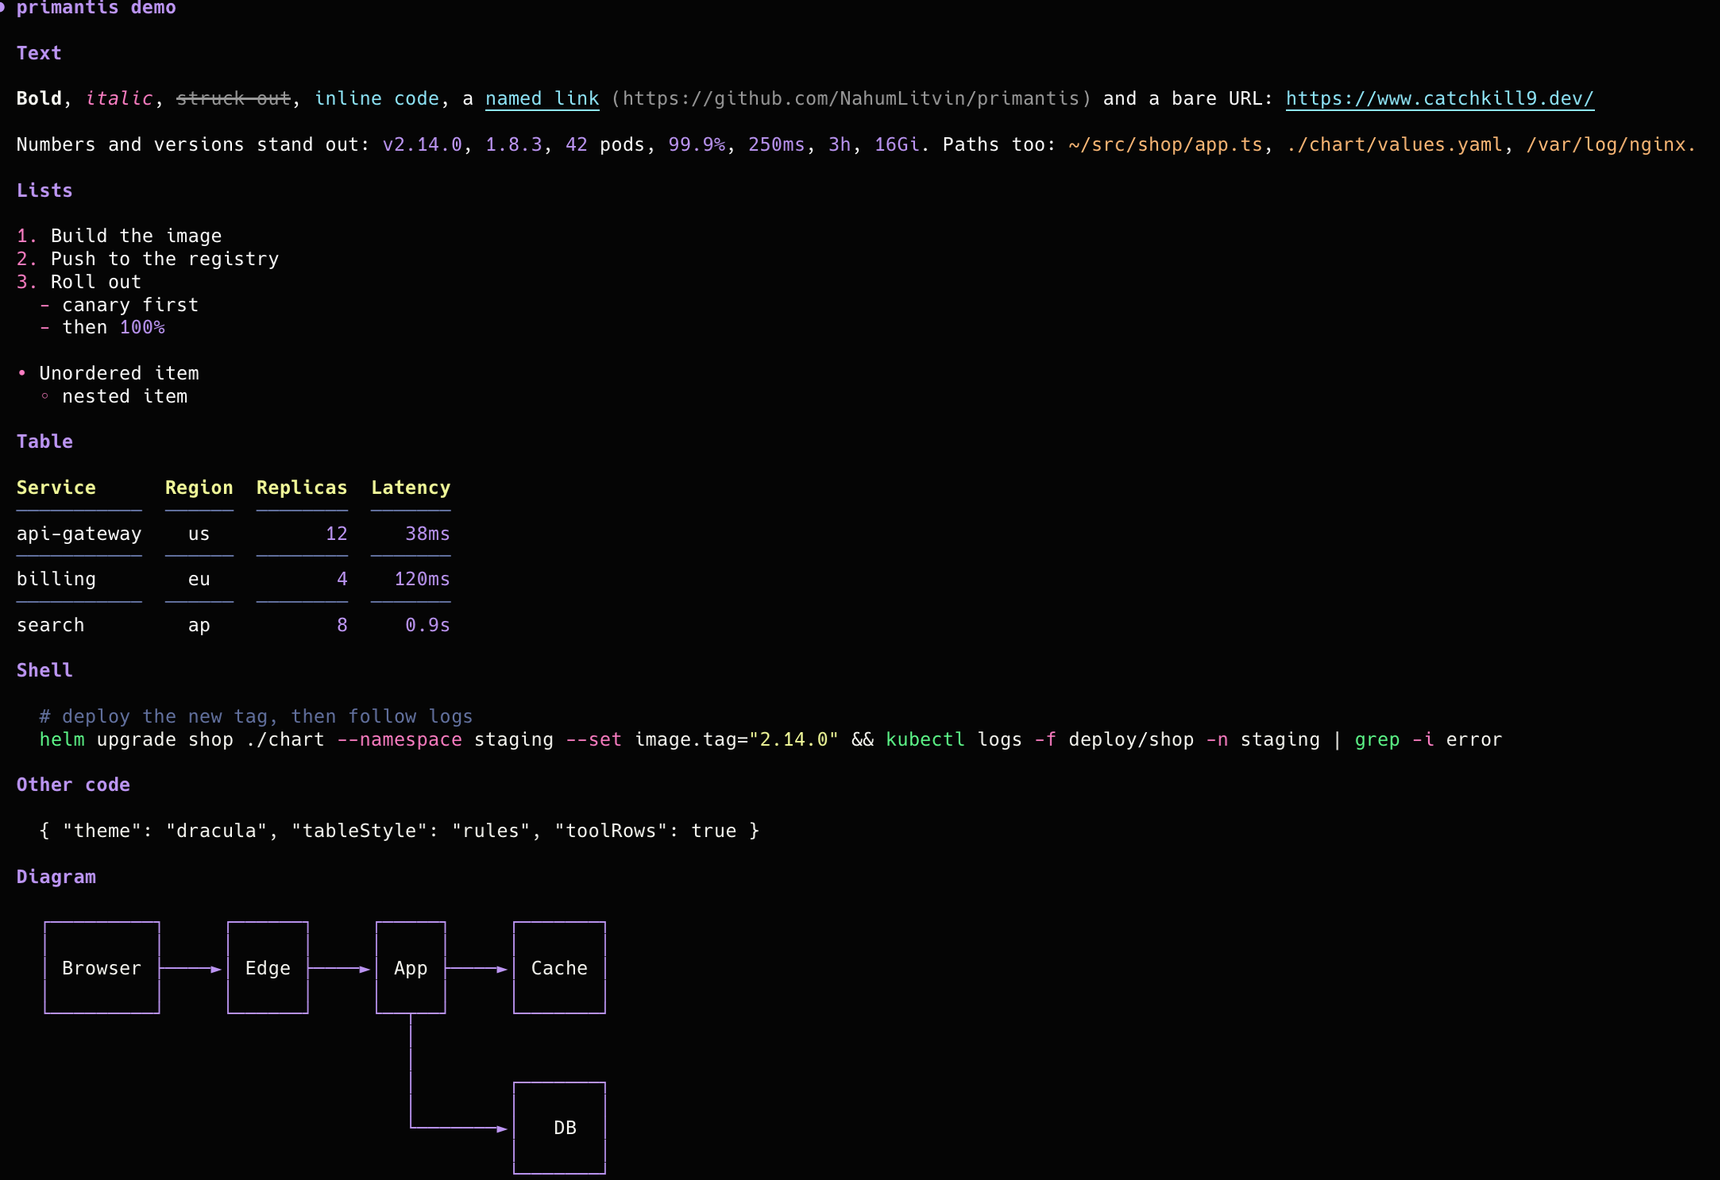
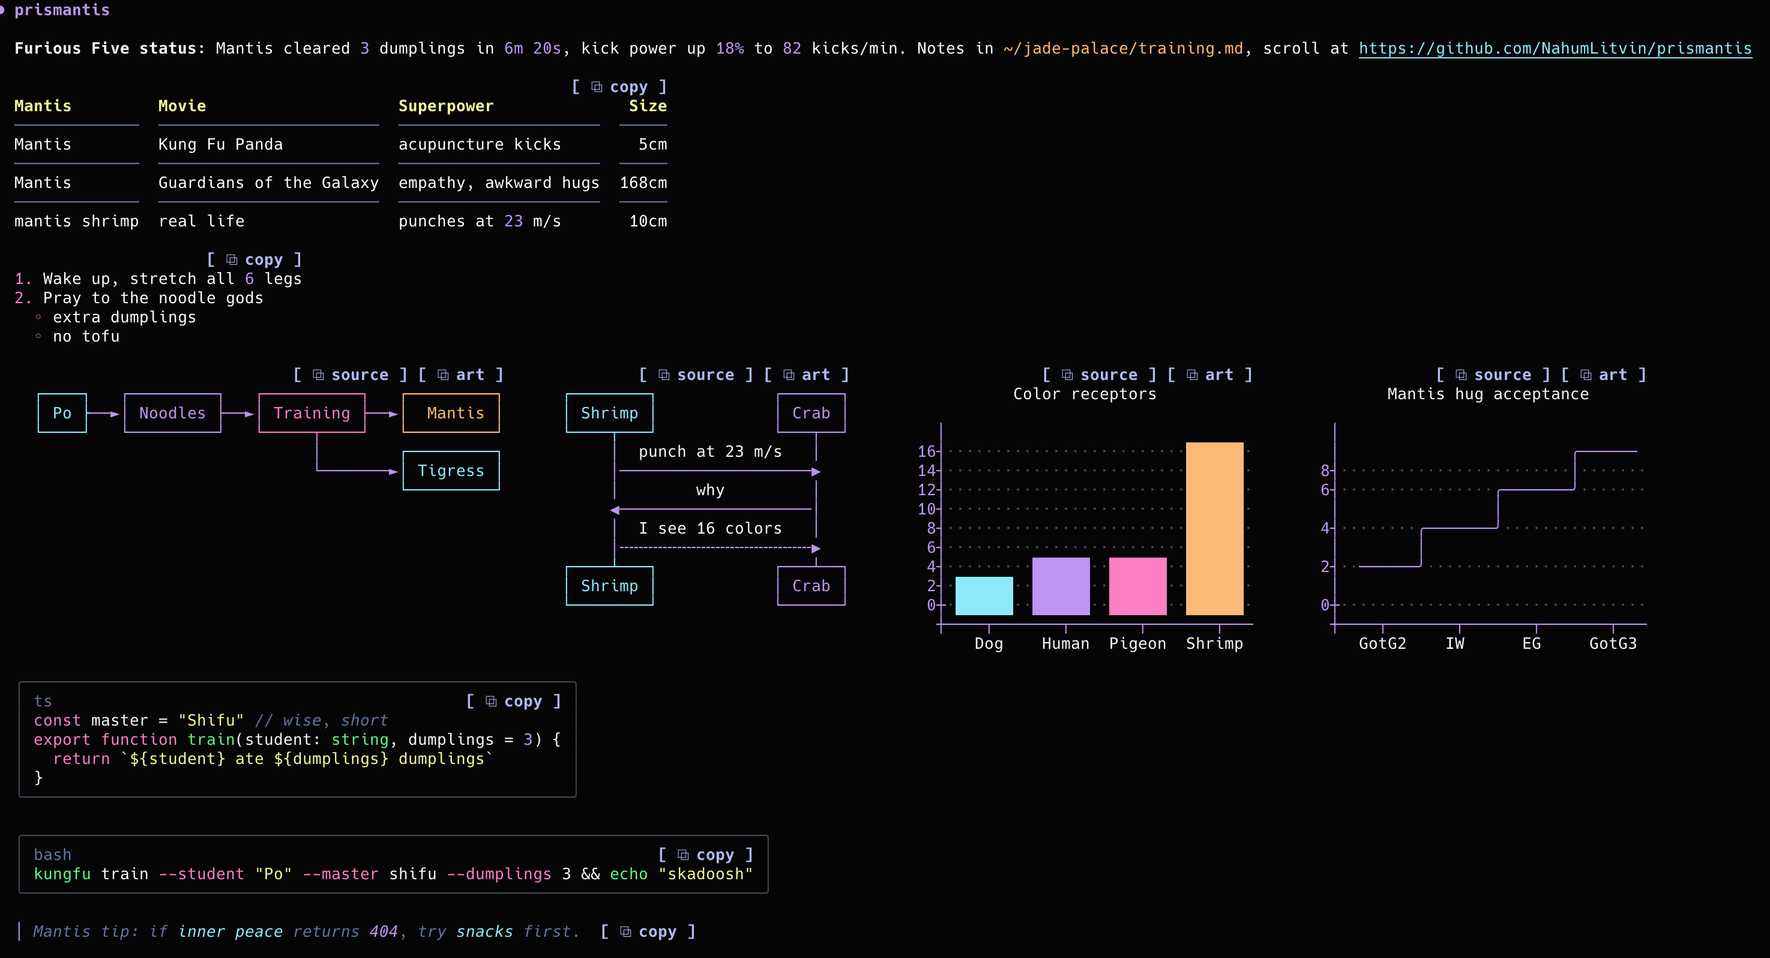
README screenshot shows every feature

diff --git a/README.md b/README.md
@@ -6,7 +6,7 @@
 
 Colorful, themeable replies for [Claude Code](https://claude.com/claude-code): tables, code, diagrams, charts and tool calls, in 15 themes, with copy buttons on everything.
 
-![prismantis on the Dracula theme: text styles, numbers, paths, lists, a table, shell and JSON code, and a mermaid diagram](docs/screenshot.png)
+![prismantis on the Dracula theme: a table, a nested list, a flowchart, a sequence diagram, bar and line charts side by side, highlighted TypeScript and shell blocks, and copy buttons](docs/screenshot.png)
 
 ## Features
 
